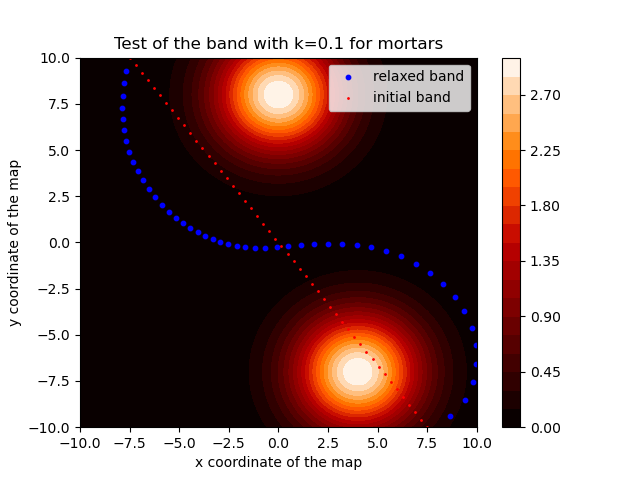
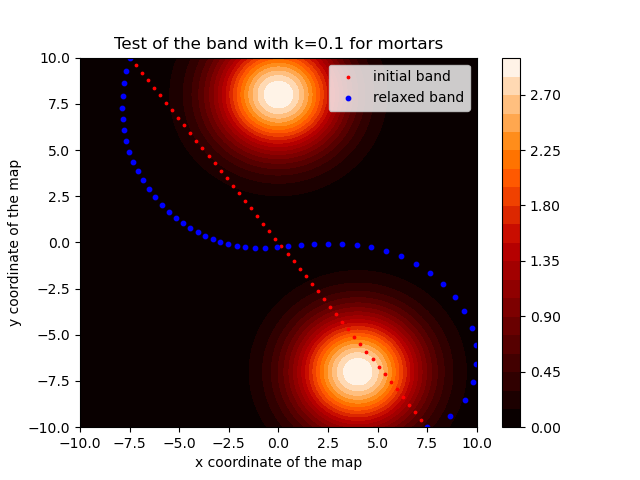
Nearly done - all comments included

diff --git a/el_band_funcs.py b/el_band_funcs.py
@@ -13,6 +13,17 @@ def takeTime (func) :
     """
     @functools.wraps(func)
     def wrapper (*args, **kwargs) :
+        
+        if func.__name__ == 'run' and args[0].func == 'mortars':
+            print("\
+            =============================================\n\
+                        THIS IS A WARZONE!!! \n\
+                YOU ARE ADVANCING ON ENEMY LINES AND \n\
+                        LEFT THE TRENCH!             \n\
+                WATCH OUT FOR IMPACT OF ENEMY FIRE!!!\n\
+                        GOOD LUCK OUT THERE! \n\
+            =============================================\n\
+            ")
         tic = time.perf_counter()
         result = func(*args, **kwargs)
         toc = time.perf_counter()
@@ -158,7 +169,7 @@ def run(params):
 
     #Specify the value spacing of the map and the bounds
     spacing = (max(x)-min(x))/np.size(x)
-    bound = [(-min(x)+spacing,max(x)-spacing) for _ in range((params.N_band-2)*2)]
+    bound = [(min(x)+spacing,max(x)-spacing) for _ in range((params.N_band-2)*2)]
     
     #Arguments for the Energy function: inital, final, x, y, Z, map-resolution, spring-constant
     args = (band_list[0],band_list[-1],x,y,Z,params.N,params.k)
@@ -167,13 +178,14 @@ def run(params):
     #The initial and final points need to be given seperatly, so that they don't get minimized.
     #The 'eps'-option sets the absolute step size the algorithm makes.
     #It has to be slightly larger than the map spacing so that new values get evaluated.
-    res = minimize(Energy,band_list[1:-1],args=args,bounds=bound,options={'disp':True,'eps':spacing*1.05})
-
+    print("Starting minimizer.")
+    res = minimize(Energy,band_list[1:-1],args=args,bounds=bound,options={'disp':False,'eps':spacing*1.05})
+    print("Minimizer finished.")
     #Extract the minimized coordinates from the flattened result and append the end points
-    new_x = np.array(res.x[::2])
+    new_x = list(res.x[::2])
     new_x.append(band_list[-1][0])
     new_x.insert(0,band_list[0][0])
-    new_y = np.array(res.x[1::2])
+    new_y = list(res.x[1::2])
     new_y.append(band_list[-1][1])
     new_y.insert(0,band_list[0][1])
 
@@ -182,7 +194,6 @@ def run(params):
     ax = fig.add_subplot()
     ax.set_xlabel('x coordinate of the map')
     ax.set_ylabel('y coordinate of the map')
-    ax.legend()
     ax.set_title(f'Test of the band with k={params.k} for {params.func}')
 
     #Plot the potential map
@@ -197,6 +208,7 @@ def run(params):
     ax.scatter(new_x,new_y,c='blue',s=10,label='relaxed band')
     
     #Save the plot
+    ax.legend()
     fig.savefig(f'./images/el_band_k={params.k}_map_{params.func}.png')
     
-    
+    return

diff --git a/runscript.py b/runscript.py
@@ -12,7 +12,7 @@ After that the band is created and as first step linearly interpolated between t
 By the scipy algorithm scipy.optimize.minimize, one obtains the global energy minimum and the corresponding local band points, which are afterwards 
 plotted above the landscape as heatmap and exported in a png file.
 
-Have fun :)
+Have fun :) (Will you discover the easteregg?)
 
 """
 

diff --git a/params.py b/params.py
@@ -26,4 +26,4 @@ class params:
     k                   =       0.1    
 
     csv_existing        =       False 
-    func                =       "mortars"
+    func                =       "trench"        #Possibly input: trench,mortars (Watch out for the easteregg ;) )

diff --git a/README.md b/README.md
@@ -39,4 +39,4 @@ By the scipy algorithm scipy.optimize.minimize, one obtains the global energy mi
 plotted above the landscape as heatmap and exported in a png file.
 
 
-Have fun :)
+Have fun :) (Will you discover the easteregg?)
